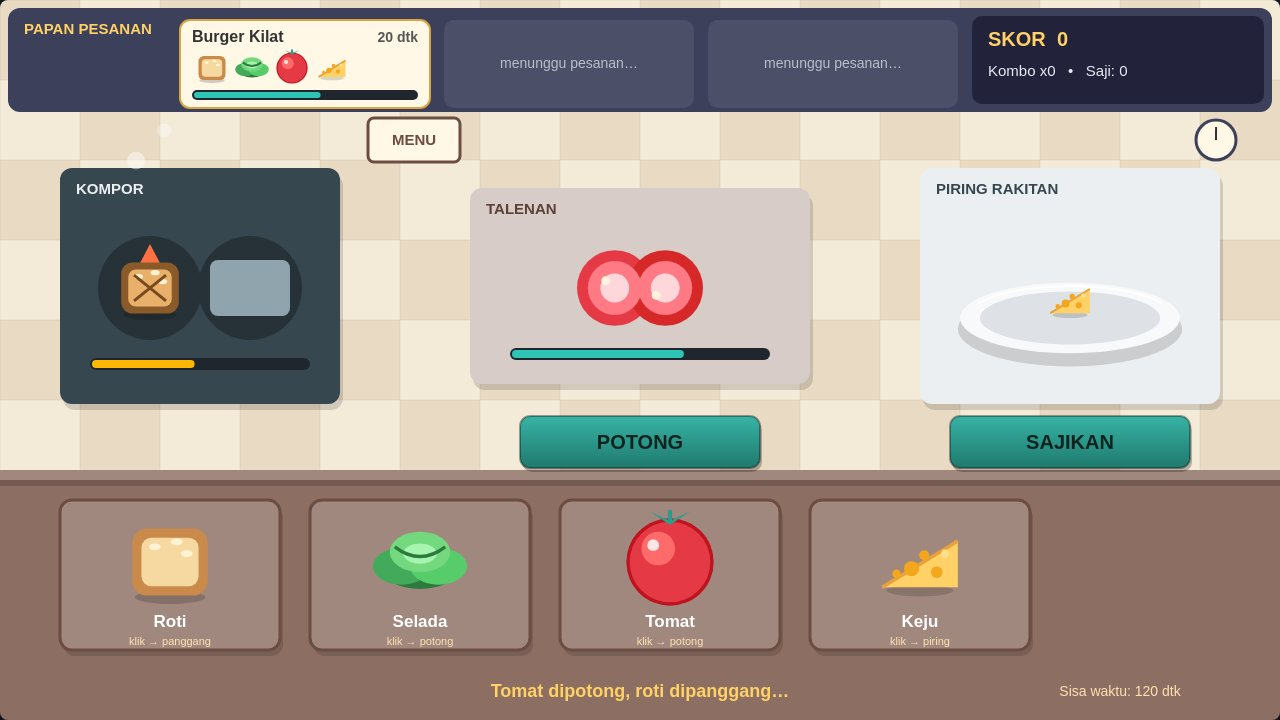
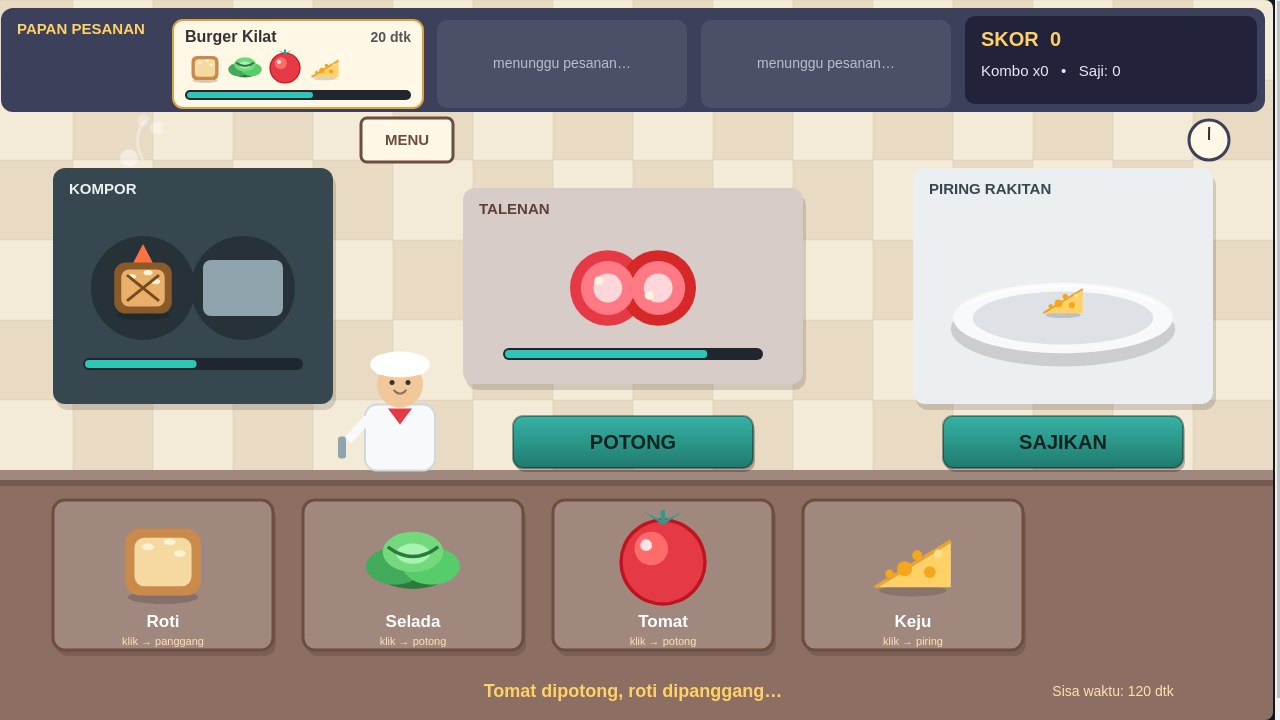
Polish ronde 2: koki, burger berlapis, skor melayang, timer darurat

diff --git a/game/src/kitchen.js b/game/src/kitchen.js
@@ -131,6 +131,13 @@ function drawKitchen(ctx, G) {
     const st = (G.elapsed * 30) % 46;
     circle(ctx, LAYOUT.stove.x + 76, LAYOUT.stove.y - 6 - st, 9, 'rgba(255,255,255,.45)');
     circle(ctx, LAYOUT.stove.x + 104, LAYOUT.stove.y - 18 - ((st + 18) % 46), 7, 'rgba(255,255,255,.35)');
+    circle(ctx, LAYOUT.stove.x + 90, LAYOUT.stove.y - 12 - ((st + 32) % 46), 6, 'rgba(255,255,255,.3)');
+    ctx.strokeStyle = 'rgba(255,255,255,.35)';
+    ctx.lineWidth = 3;
+    ctx.beginPath();
+    ctx.moveTo(LAYOUT.stove.x + 90, LAYOUT.stove.y - 8);
+    ctx.quadraticCurveTo(LAYOUT.stove.x + 78, LAYOUT.stove.y - 30, LAYOUT.stove.x + 92, LAYOUT.stove.y - 48);
+    ctx.stroke();
     drawIngredient(ctx, 'roti', LAYOUT.stove.x + 90, LAYOUT.stove.y + 120, 64, 'panggang');
     drawTimerBar(ctx, LAYOUT.stove.x + 30, LAYOUT.stove.y + 190, 220, 12, G.toasting.prog);
   }
@@ -151,6 +158,8 @@ function drawKitchen(ctx, G) {
   } else {
     txt(ctx, 'kosong — klik tomat / selada', LAYOUT.cutBoard.x + 170, LAYOUT.cutBoard.y + 100, 14, '#8d6e63', 'center');
   }
+  // koki kecil di celah kompor-talenan
+  drawChef(ctx, G);
   // area piring rakitan
   panelShadow(ctx, LAYOUT.plateArea.x, LAYOUT.plateArea.y, LAYOUT.plateArea.w, LAYOUT.plateArea.h);
   rr(ctx, LAYOUT.plateArea.x, LAYOUT.plateArea.y, LAYOUT.plateArea.w, LAYOUT.plateArea.h, 12);
@@ -174,6 +183,18 @@ function drawKitchen(ctx, G) {
   // tombol
   drawButton(ctx, LAYOUT.cutBtn.x, LAYOUT.cutBtn.y, LAYOUT.cutBtn.w, LAYOUT.cutBtn.h, 'POTONG', !!G.cutting, false);
   drawButton(ctx, LAYOUT.serveBtn.x, LAYOUT.serveBtn.y, LAYOUT.serveBtn.w, LAYOUT.serveBtn.h, 'SAJIKAN', G.plate.length > 0, plateMatches(G));
+  // teks skor melayang
+  for (const f of G.floaters) {
+    ctx.globalAlpha = Math.max(0, Math.min(1, f.t));
+    ctx.font = 'bold 24px Verdana, sans-serif';
+    ctx.textAlign = 'center';
+    ctx.textBaseline = 'middle';
+    ctx.lineWidth = 5;
+    ctx.strokeStyle = 'rgba(90,40,0,.75)';
+    ctx.strokeText(f.text, f.x, f.y);
+    txt(ctx, f.text, f.x, f.y, 24, '#ffd166', 'center', true);
+    ctx.globalAlpha = 1;
+  }
   // pesan + sisa waktu
   if (G.message) {
     txt(ctx, G.message, LAYOUT.msg.x, LAYOUT.msg.y, 18, '#ffd166', 'center', true);
@@ -182,6 +203,48 @@ function drawKitchen(ctx, G) {
   if (G.state === 'menu') drawMenu(ctx, G);
   else if (G.state === 'over') drawOver(ctx, G);
 }
+// Koki kecil berdiri di celah antara kompor dan talenan, di belakang meja.
+function drawChef(ctx, G) {
+  const cx = 407, base = 470;
+  const bob = Math.sin(G.elapsed * 2) * 2;
+  rr(ctx, cx - 35, base - 66 + bob, 70, 66, 12);
+  ctx.fillStyle = '#f8f9fa';
+  ctx.fill();
+  ctx.lineWidth = 2;
+  ctx.strokeStyle = '#cfd8dc';
+  ctx.stroke();
+  ctx.fillStyle = '#e63946';
+  ctx.beginPath();
+  ctx.moveTo(cx - 12, base - 62 + bob);
+  ctx.lineTo(cx + 12, base - 62 + bob);
+  ctx.lineTo(cx, base - 46 + bob);
+  ctx.closePath();
+  ctx.fill();
+  circle(ctx, cx, base - 86 + bob, 23, '#f2c89b');
+  ellipse(ctx, cx, base - 106 + bob, 30, 13, '#ffffff');
+  circle(ctx, cx - 18, base - 106 + bob, 10, '#ffffff');
+  circle(ctx, cx + 18, base - 106 + bob, 10, '#ffffff');
+  rr(ctx, cx - 24, base - 104 + bob, 48, 8, 4);
+  ctx.fillStyle = '#ffffff';
+  ctx.fill();
+  circle(ctx, cx - 8, base - 88 + bob, 2.5, '#333333');
+  circle(ctx, cx + 8, base - 88 + bob, 2.5, '#333333');
+  ctx.strokeStyle = '#8d6e63';
+  ctx.lineWidth = 2;
+  ctx.beginPath();
+  ctx.arc(cx, base - 84 + bob, 7, Math.PI * 0.15, Math.PI * 0.85);
+  ctx.stroke();
+  ctx.strokeStyle = '#f8f9fa';
+  ctx.lineWidth = 9;
+  ctx.beginPath();
+  ctx.moveTo(cx - 32, base - 52 + bob);
+  ctx.lineTo(cx - 52, base - 30 + bob);
+  ctx.stroke();
+  rr(ctx, cx - 62, base - 34 + bob, 8, 22, 3);
+  ctx.fillStyle = '#90a4ae';
+  ctx.fill();
+}
+
 function drawMenu(ctx, G) {
   ctx.fillStyle = 'rgba(20, 30, 40, 0.72)';
   ctx.fillRect(0, 0, 1280, 720);

diff --git a/game/src/render.js b/game/src/render.js
@@ -144,6 +144,9 @@ function drawPlate(ctx, items, x, y, r) {
   ctx.beginPath();
   ctx.ellipse(x, y, r * 0.94, r * 0.29, 0, Math.PI * 1.15, Math.PI * 1.85);
   ctx.stroke();
+  const kinds = items.map(function (it) { return it.kind; });
+  const full = items.length === 4 && ['roti', 'selada', 'tomat', 'keju'].every(function (k) { return kinds.indexOf(k) >= 0; });
+  if (full) { drawBurger(ctx, x, y); return; }
   if (items.length === 0) {
     txt(ctx, 'piring kosong', x, y - 6, 15, '#8a97a3', 'center');
     return;
@@ -153,6 +156,36 @@ function drawPlate(ctx, items, x, y, r) {
     drawIngredient(ctx, it.kind, ox, y - 18, 44, it.prep);
     ox += 52;
   }
+}
+
+// Burger lengkap berlapis: roti bawah, keju meleleh, tomat, selada, roti atas.
+function drawBurger(ctx, x, y) {
+  ellipse(ctx, x, y + 18, 48, 11, '#c98a4b');
+  ellipse(ctx, x, y + 17, 44, 9, '#f6d9a0');
+  ellipse(ctx, x, y + 8, 48, 8, '#ffd166');
+  circle(ctx, x - 26, y + 14, 5, '#ffd166');
+  circle(ctx, x + 6, y + 15, 5, '#ffd166');
+  circle(ctx, x + 28, y + 14, 5, '#ffd166');
+  circle(ctx, x - 18, y - 2, 13, '#e63946');
+  circle(ctx, x + 18, y - 2, 13, '#d62828');
+  circle(ctx, x - 18, y - 2, 8, '#ff7a85');
+  circle(ctx, x + 18, y - 2, 8, '#ff7a85');
+  ellipse(ctx, x, y - 12, 50, 9, '#57cc6a');
+  circle(ctx, x - 30, y - 12, 7, '#74d97e');
+  circle(ctx, x + 30, y - 12, 7, '#74d97e');
+  ctx.fillStyle = '#f6d9a0';
+  ctx.beginPath();
+  ctx.arc(x, y - 12, 46, Math.PI, 0);
+  ctx.closePath();
+  ctx.fill();
+  ctx.strokeStyle = '#c98a4b';
+  ctx.lineWidth = 3;
+  ctx.beginPath();
+  ctx.arc(x, y - 12, 46, Math.PI, 0);
+  ctx.stroke();
+  ellipse(ctx, x - 20, y - 32, 4, 2.5, '#fff3d6');
+  ellipse(ctx, x + 2, y - 40, 4, 2.5, '#fff3d6');
+  ellipse(ctx, x + 22, y - 30, 4, 2.5, '#fff3d6');
 }
 
 // Bar timer: hijau -> kuning -> merah.
@@ -194,11 +227,12 @@ function drawButton(ctx, x, y, w, h, label, enabled, hot) {
 
 // Kartu pesanan: nama resep + ikon bahan + bar timer.
 function drawOrderCard(ctx, o, x, y, w, h) {
+  const urgent = !o.done && !o.failed && o.t <= 5;
   rr(ctx, x, y, w, h, 10);
-  ctx.fillStyle = o.done ? '#2a9d8f' : '#fff8e7';
+  ctx.fillStyle = o.done ? '#2a9d8f' : (urgent ? '#ffe3e3' : '#fff8e7');
   ctx.fill();
-  ctx.lineWidth = 2;
-  ctx.strokeStyle = o.failed ? '#ef476f' : '#d9a441';
+  ctx.lineWidth = urgent ? 4 : 2;
+  ctx.strokeStyle = (o.failed || urgent) ? '#ef476f' : '#d9a441';
   ctx.stroke();
   txt(ctx, o.recipe.name, x + 12, y + 18, 16, '#333333', 'left', true);
   let ix = x + 16;
@@ -207,5 +241,9 @@ function drawOrderCard(ctx, o, x, y, w, h) {
     ix += 40;
   }
   drawTimerBar(ctx, x + 12, y + h - 18, w - 24, 10, o.t / o.max);
-  txt(ctx, Math.ceil(o.t) + ' dtk', x + w - 12, y + 18, 14, '#555555', 'right', true);
+  txt(ctx, Math.ceil(o.t) + ' dtk', x + w - 12, y + 18, 14, urgent ? '#d62828' : '#555555', 'right', true);
+  if (urgent) {
+    circle(ctx, x + w - 14, y + h - 34, 11, '#ef476f');
+    txt(ctx, '!', x + w - 14, y + h - 33, 14, '#ffffff', 'center', true);
+  }
 }

diff --git a/game/src/orders.js b/game/src/orders.js
@@ -135,6 +135,7 @@ function tryServe(G) {
     G.served++;
     G.orders.splice(idx, 1);
     G.plate = [];
+    G.floaters.push({ x: 1070, y: 280, text: '+' + pts + '!', t: 2.5 });
     setMsg(G, o.recipe.name + ' disajikan! +' + pts + (G.combo >= 2 ? ' (kombo x' + G.combo + ')' : ''));
   } else {
     G.plate = [];
@@ -147,7 +148,7 @@ function resetGame(G) {
   G.score = 0; G.combo = 0; G.served = 0; G.missed = 0;
   G.elapsed = 0; G.spawnT = 1.2;
   G.orders = []; G.plate = []; G.cutting = null; G.toasting = null;
-  G.message = ''; G.messageT = 0;
+  G.message = ''; G.messageT = 0; G.floaters = [];
 }
 
 // Preset demo untuk screenshot fase 2 (render asli kode game sendiri).
@@ -184,7 +185,7 @@ function demoPreset(G, kind) {
     G.state = 'play';
     G.orders = [
       { id: 907, recipe: RECIPES[2], t: 30, max: 30, done: false, failed: false },
-      { id: 908, recipe: RECIPES[3], t: 18, max: 35, done: false, failed: false },
+      { id: 908, recipe: RECIPES[3], t: 4, max: 35, done: false, failed: false },
     ];
     G.plate = [{ kind: 'selada', prep: 'potong' }];
     G.toasting = { kind: 'roti', prog: 0.6 };
@@ -203,5 +204,6 @@ function demoPreset(G, kind) {
     ];
     G.score = 340; G.combo = 2; G.served = 2;
     setMsg(G, 'Burger Kilat siap disajikan!');
+    G.floaters.push({ x: 1070, y: 225, text: '+164!', t: 2.5 });
   }
 }

diff --git a/game/src/main.js b/game/src/main.js
@@ -8,7 +8,7 @@ const G = {
   state: 'menu', score: 0, combo: 0, served: 0, missed: 0,
   elapsed: 0, spawnT: 1.2,
   orders: [], plate: [], cutting: null, toasting: null,
-  message: '', messageT: 0,
+  message: '', messageT: 0, floaters: [],
 };
 
 function startGame() {
@@ -22,6 +22,12 @@ function update(dt) {
   if (G.messageT > 0) {
     G.messageT -= dt;
     if (G.messageT <= 0) G.message = '';
+  }
+  for (let i = G.floaters.length - 1; i >= 0; i--) {
+    const f = G.floaters[i];
+    f.t -= dt;
+    f.y -= 28 * dt;
+    if (f.t <= 0) G.floaters.splice(i, 1);
   }
   updateOrders(G, dt);
   updatePrep(G, dt);
